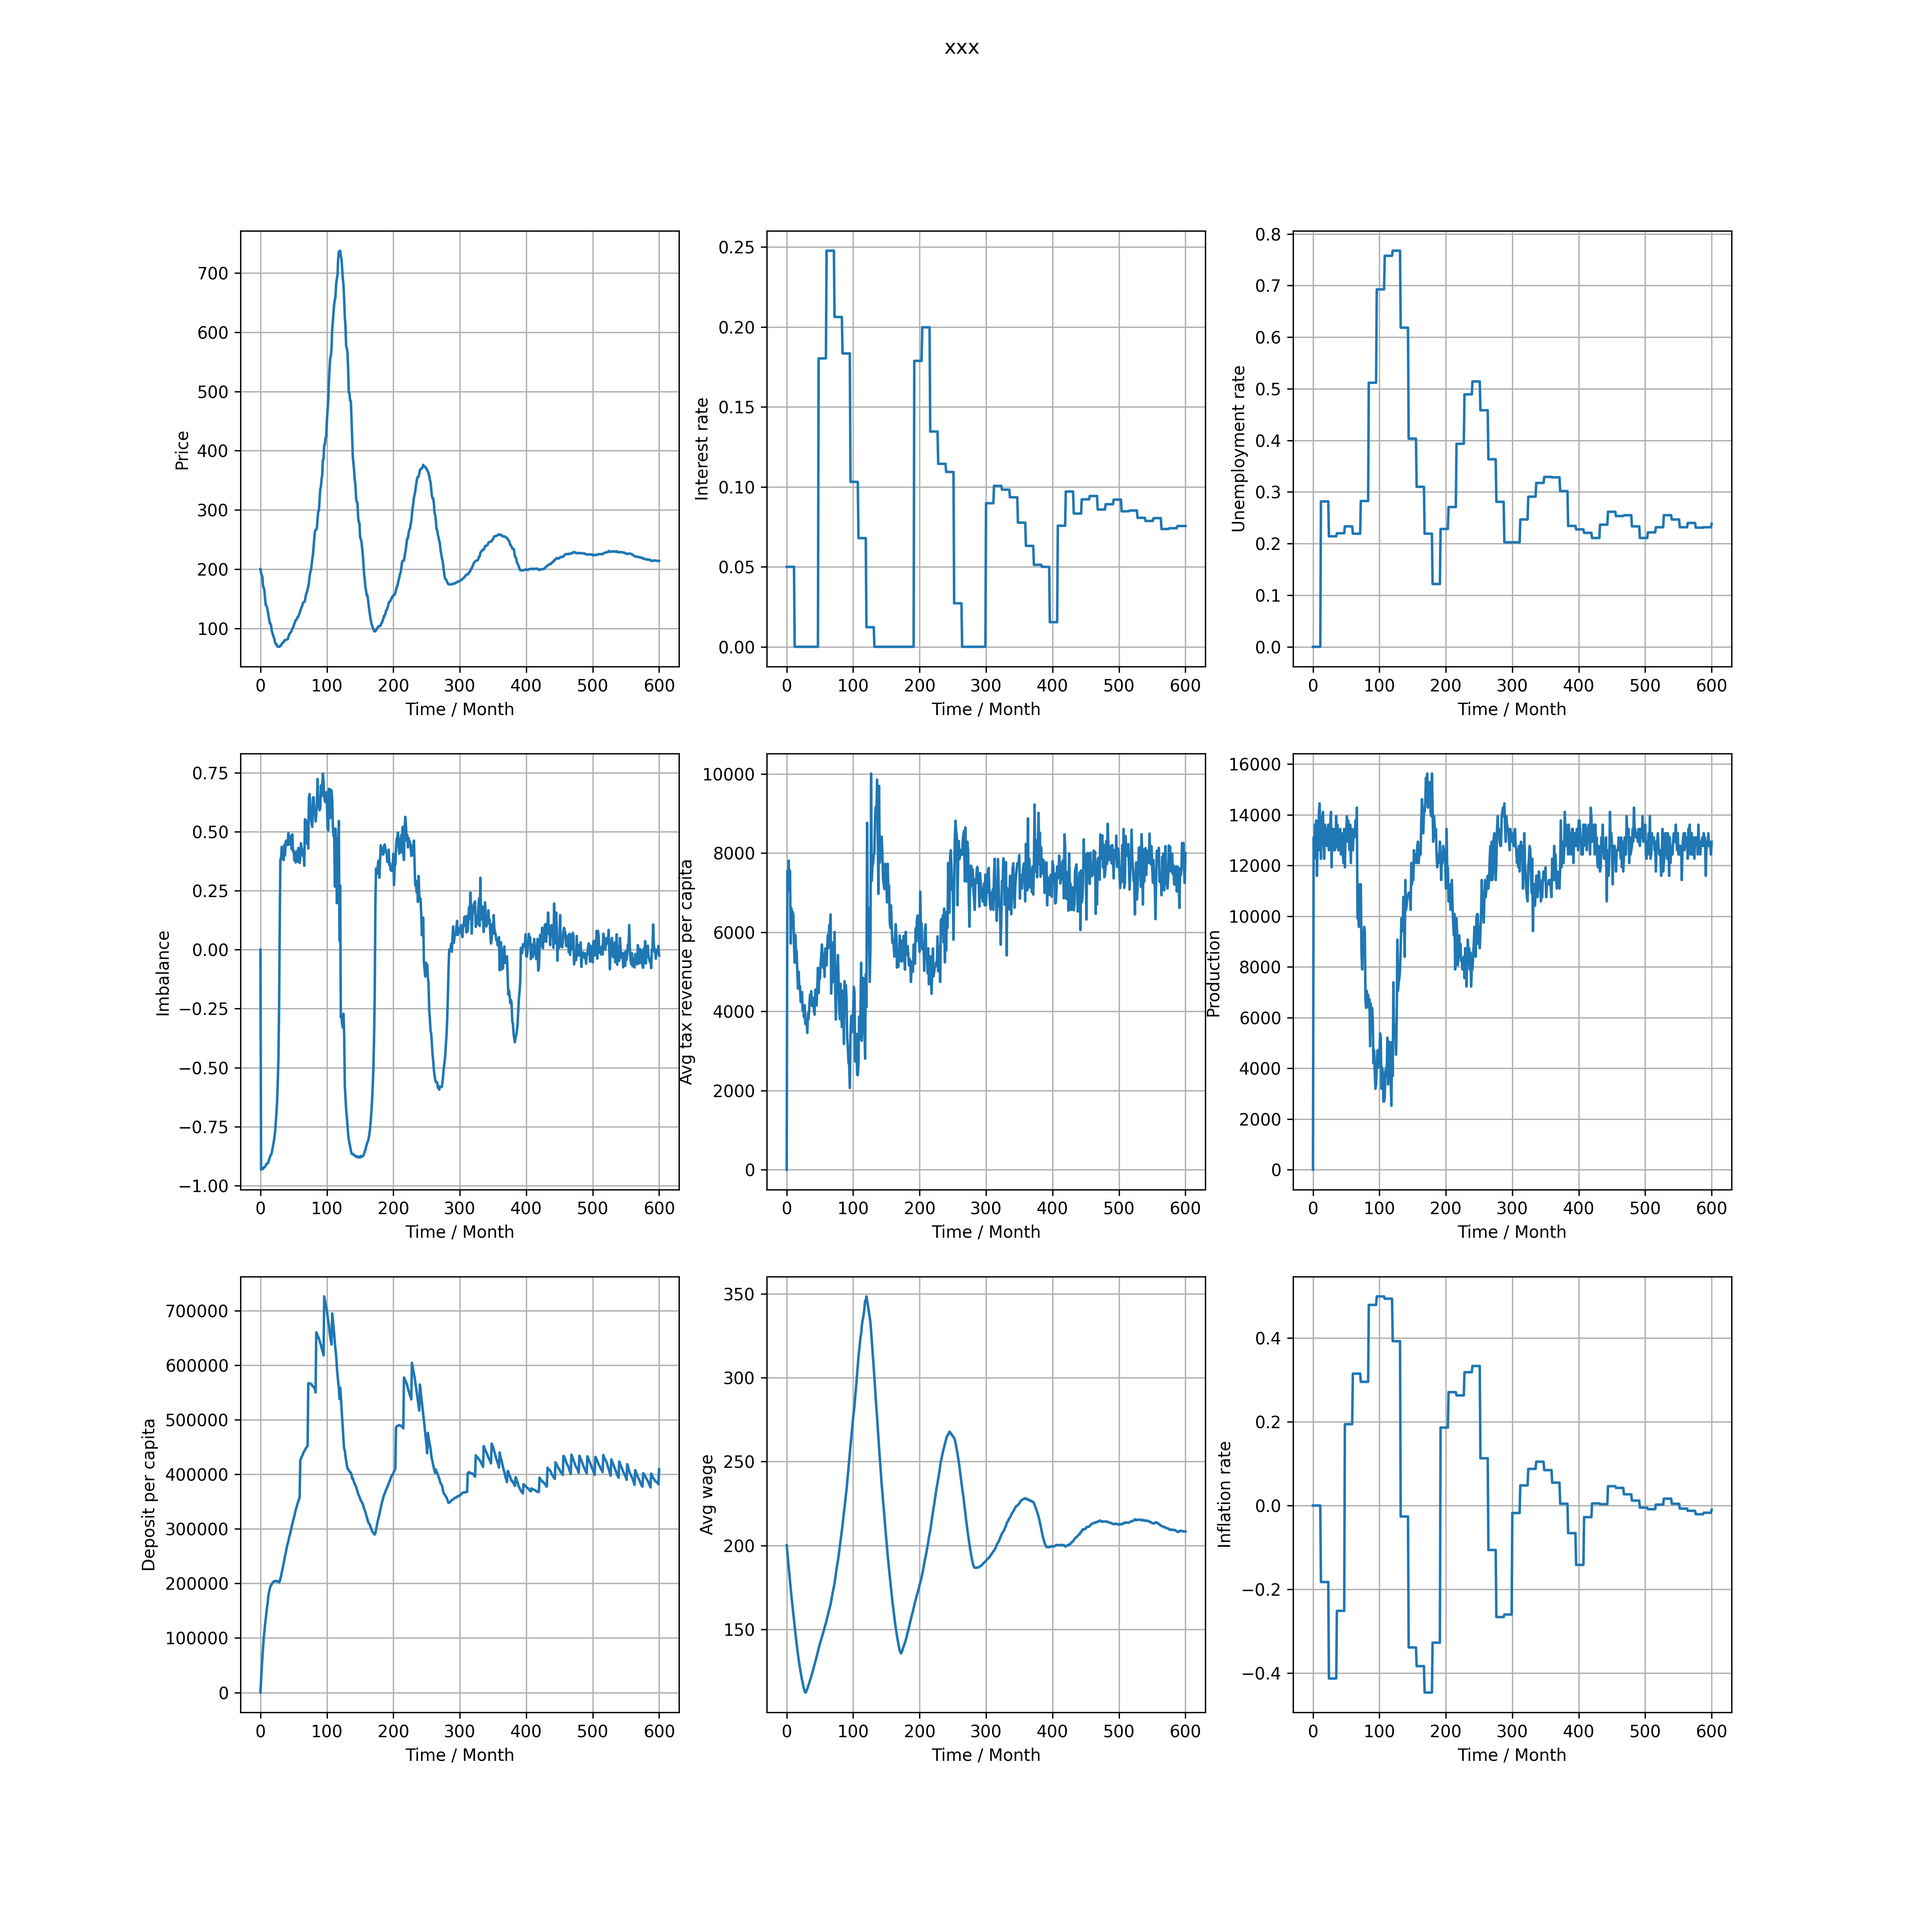
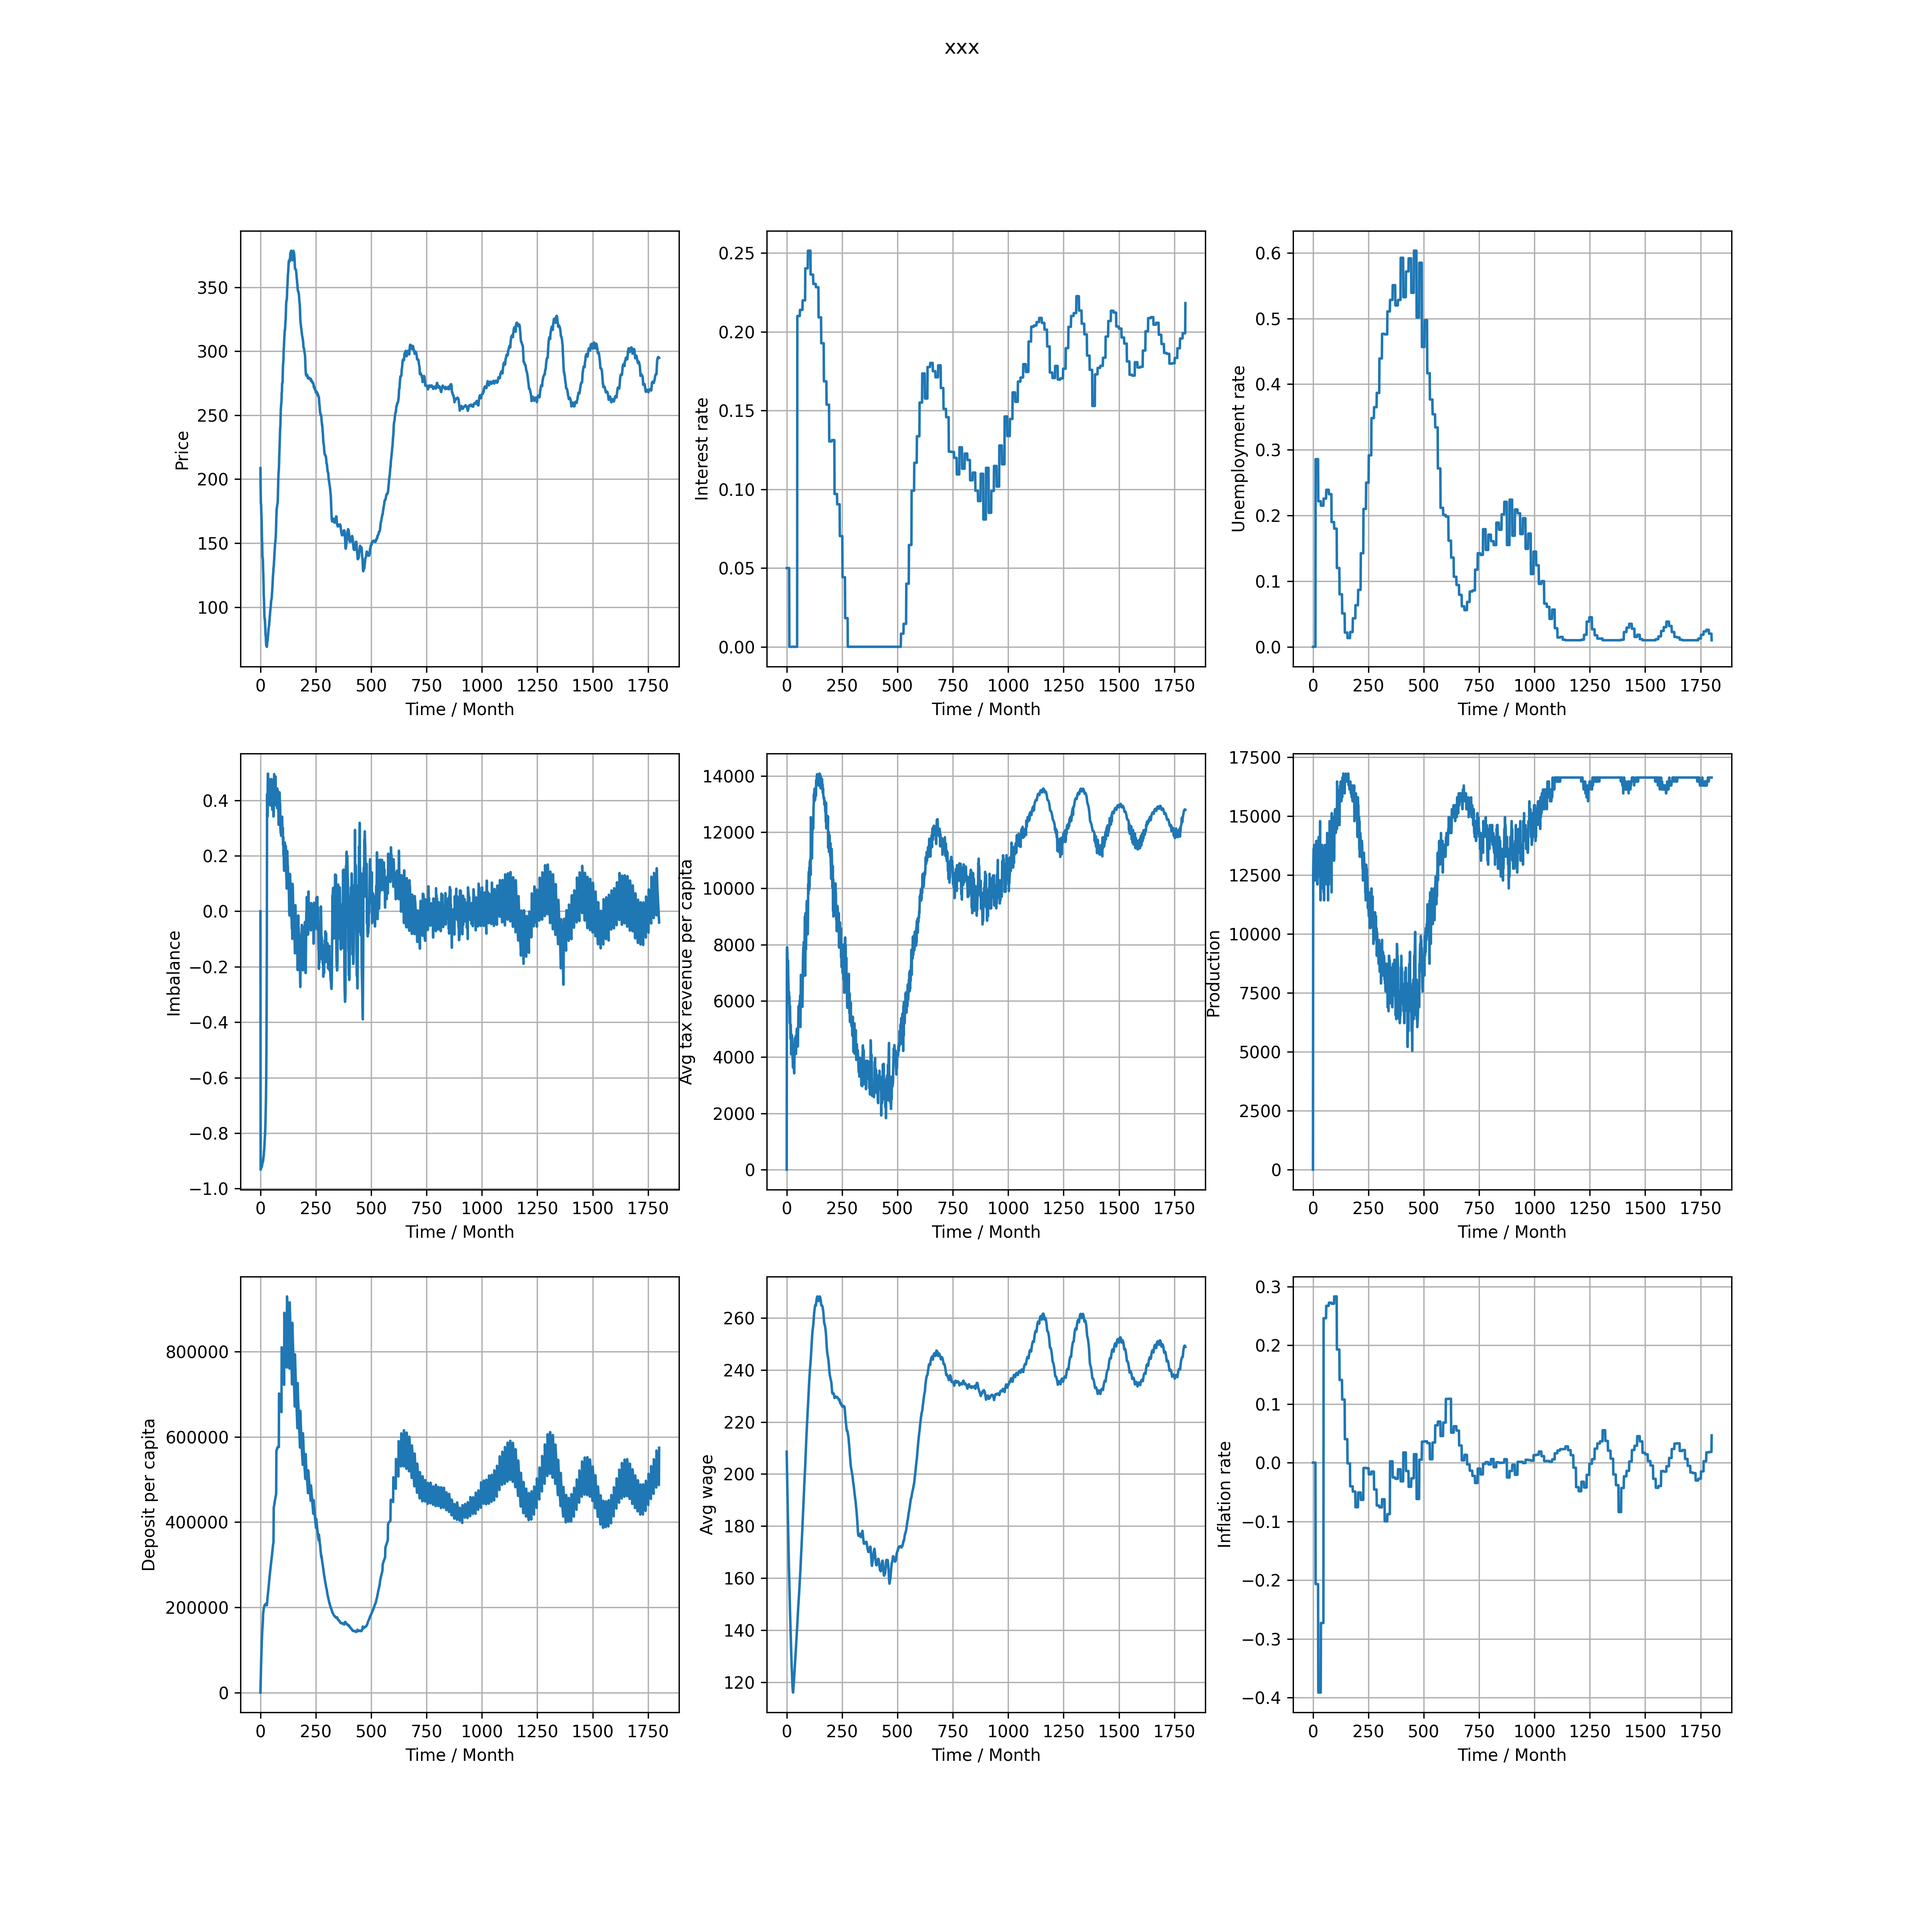
add agent pw and pc adjustment

diff --git a/main.py b/main.py
@@ -111,7 +111,7 @@ class market:
     def __init__(self, ) -> None:
         pass
         
-    def inflation(self, log:dict):
+    def inflation(self, log:dict[dict]):
         '''
         通胀率 = 本年均价 - 上年均价 / 上年均价
         '''
@@ -129,8 +129,6 @@ class market:
         for state in tmp_states:
             unemployment_cnt += state.count(0)
         return unemployment_cnt / (12 * len(state))
-    
-
     
     def total_intended_demand(self, agent_list:list[agent], P:float, deposits:dict) -> float:
         '''
@@ -150,15 +148,15 @@ class market:
         phi_bar = (D - G) / max(D, G)
         return phi_bar
 
-def main(config:Configuration):
+def simulation(config:Configuration):
     
     M = market()
     F = firm(A=config.A, alpha_w=config.alpha_w, alpha_p=config.alpha_p)
     B = bank(rn=config.rn, pi_t=config.pi_t, un=config.un, alpha_pi=config.alpha_pi, alpha_u=config.alpha_u)
     
     agents = [agent(id=i, 
-                    pw=np.random.uniform(0.6, 0.95), 
-                    pc=np.random.uniform(0.05, 0.1), 
+                    pw=np.random.uniform(config.pw_low, config.pw_high), 
+                    pc=np.random.uniform(config.pc_low, config.pc_high), 
                     gamma=config.gamma, 
                     beta=config.gamma) for i in range(config.num_agents)]
 
@@ -171,6 +169,7 @@ def main(config:Configuration):
     log = {}
     log[0] = {
         'work_state': [a.l for a in agents], 
+        'wage': [a.w for a in agents],
         'price': F.P, 
         'rate': B.rate, 
         'production': 0,
@@ -180,6 +179,7 @@ def main(config:Configuration):
         'unemployment_rate': unem_rate,
         'deposit': {i: 0.0 for i in range(config.num_agents)},
         'avg_wage': sum([a.w for a in agents])/config.num_agents,
+        
         }
     
     for t in range(1, config.num_time_steps+1):
@@ -241,6 +241,7 @@ def main(config:Configuration):
         
         log[t] = {
             'work_state': work_state, 
+            'wage': [a.w for a in agents],
             'price': F.P, 
             'rate': B.rate, 
             'production': production,
@@ -250,16 +251,27 @@ def main(config:Configuration):
             'unemployment_rate': unem_rate,
             'deposit': deepcopy(B.deposits),
             'avg_wage': sum([a.w for a in agents])/config.num_agents,
+            
             }
         
         if t % 6 == 0 and t > 60:
             for a in agents:
-                last_period_deposit = sum([log[tt]['deposit'][a.id] for tt in range(t-12+1, t-6+1)])
-                this_period_deposit = sum([log[tt]['deposit'][a.id] for tt in range(t-6+1, t+1)])
+                last_period_deposit = sum([log[tt]['deposit'][a.id]*(1+log[tt]['rate']) for tt in range(t-12+1, t-6+1)])
+                this_period_deposit = sum([log[tt]['deposit'][a.id]*(1+log[tt]['rate']) for tt in range(t-6+1, t+1)])
                 sgn_deposit = -1 if this_period_deposit >= last_period_deposit else 1
                 
+                last_period_wage = sum([log[tt]['wage'][a.id] for tt in range(t-12+1, t-6+1)])
+                this_period_wage = sum([log[tt]['wage'][a.id] for tt in range(t-6+1, t+1)])
+                sgn_wage = 1 if this_period_wage >= last_period_wage else -1
+                
+                last_period_price = sum([log[tt]['price'] for tt in range(t-12+1, t-6+1)])
+                this_period_price = sum([log[tt]['price'] for tt in range(t-6+1, t+1)])
+                sgn_price = 1 if this_period_price >= last_period_price else -1
                 
                 a.pw += sgn_deposit * np.random.uniform() * 0.3
+                a.pw += sgn_wage * np.random.uniform() * 0.3
+                a.pc += sgn_price * np.random.uniform() * 0.002
+                a.pc += sgn_deposit * np.random.uniform() * 0.002
 
     return log
 
@@ -271,14 +283,10 @@ if __name__ == '__main__':
     random.seed(config.seed)
     np.random.seed(config.seed)
     
-    # Market = market()
-    # taxes = taxation([4500, 21000, 57000, 115000, 180000, 300000, 700000])
-    # print(taxes)
-    
     def total_deposit(deposits:dict):
         return sum([deposits[id] for id in deposits.keys()])
     
-    log = main(config)
+    log = simulation(config)
     # print(log[2])
     price_history = [log[key]['price'] for key in log.keys()]
     rate_history = [log[key]['rate'] for key in log.keys()]

diff --git a/config.py b/config.py
@@ -2,7 +2,7 @@ from time import time
 class Configuration:
     seed = int(time()) # 123
     num_agents = 100
-    num_time_steps = 12 * 50
+    num_time_steps = 12 * 150
     
     A = 1.0
     alpha_w = 0.05
@@ -12,7 +12,12 @@ class Configuration:
     pi_t = 0.1 # 0.02
     un = 0.2 # 0.04
     alpha_pi = 0.5
-    alpha_u = 0.5
+    alpha_u = 1 - alpha_pi
     
     gamma = 0.5
     beta = 0.5
+    
+    pw_low = 0.60
+    pw_high = 0.95
+    pc_low = 0.05
+    pc_high = 0.10

diff --git a/utils.py b/utils.py
@@ -42,3 +42,8 @@ def taxation(wages:list[float]):
             tax += (w - brackets[-1]) * rates[-1]
         taxes.append(tax)
     return taxes
+
+if __name__ == '__main__':
+    # taxes = taxation([4500, 21000, 57000, 115000, 180000, 300000, 700000])
+    # print(taxes)
+    pass
